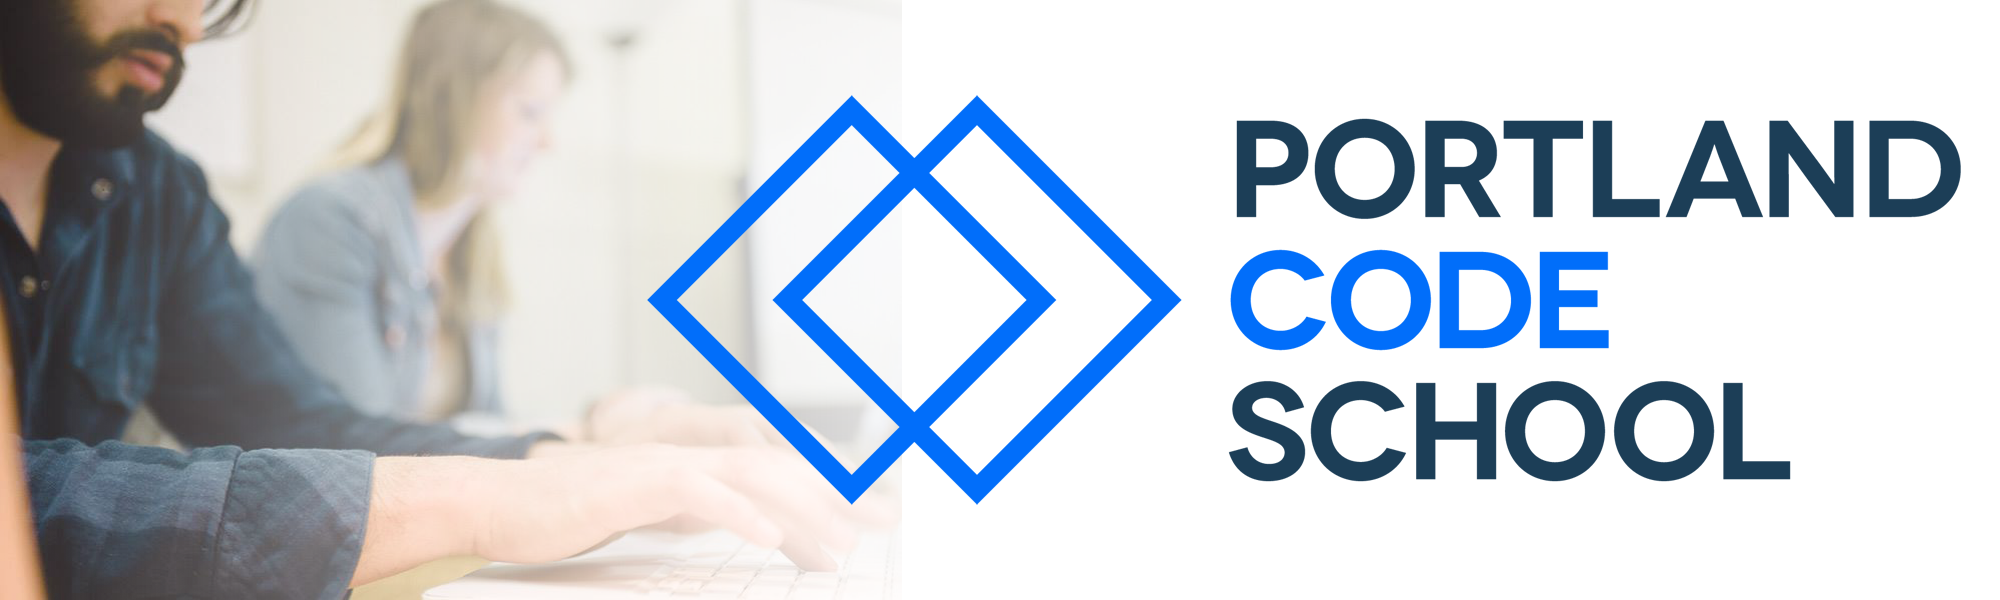
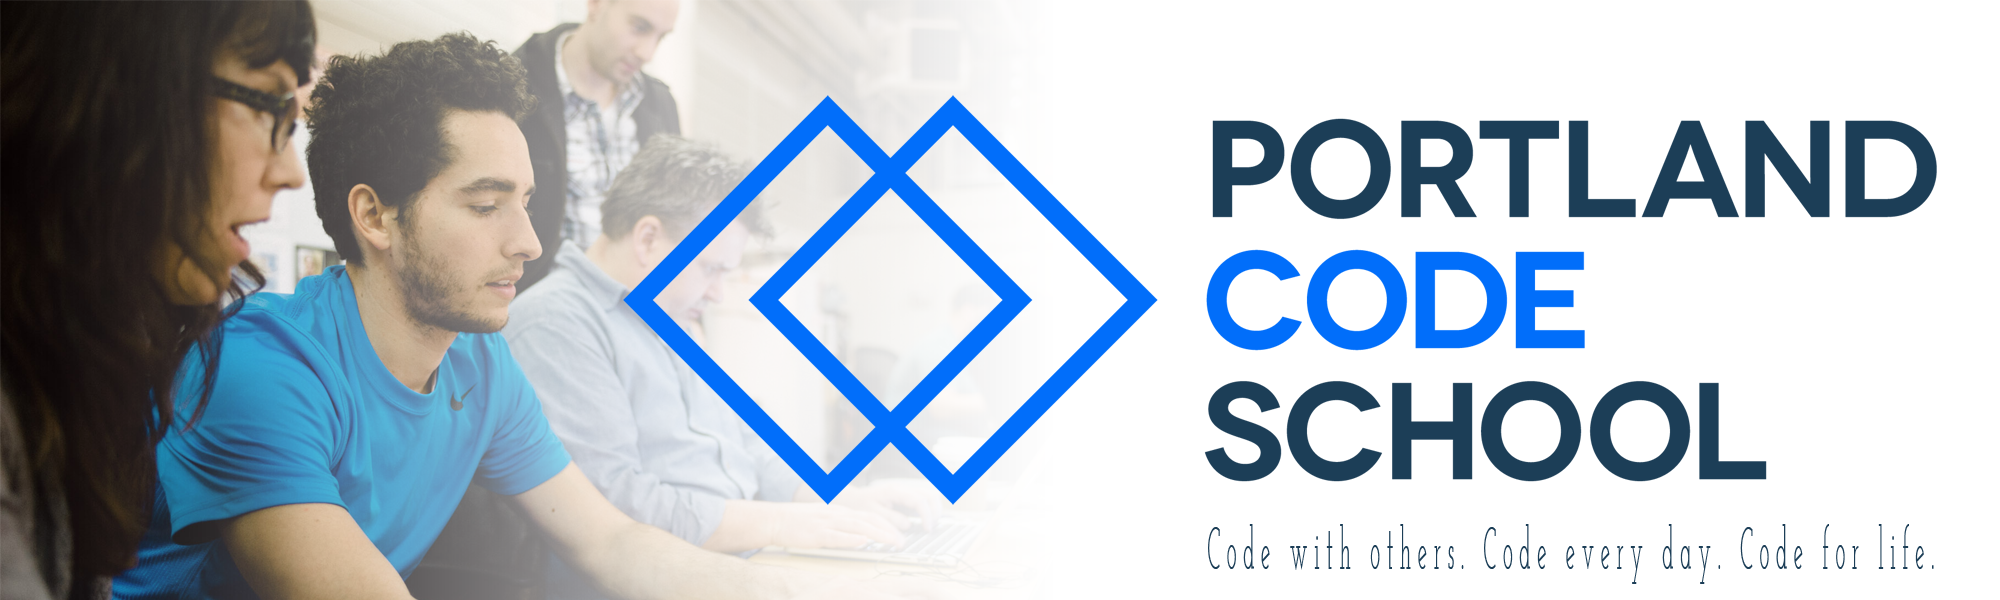
Changed landing page

diff --git a/source/stylesheets/all.css.scss b/source/stylesheets/all.css.scss
@@ -336,21 +336,20 @@ h3 {
   }
 }
 
-#landing {
+/* #landing {
   background-position: 0px 0px;
   background-color: #7b7b7b;
   color: white;
-  background-image: image_url("images/winter2013students.jpg");
+  background-image: image_url("images/banner.png");
   background-repeat: no-repeat;
-  background-size: cover;
+  background-size: 100%;
   overflow: visible;
-}
+} */
 
 .landing-content {
   font-size: 1.2em;
   text-align: center;
-  padding-top: 8%;
-  padding-bottom: 8%;
+  padding-top: 2%;
   a {
     color: $lt-teal;
     text-decoration: underline;
@@ -492,7 +491,6 @@ h3 {
   margin-top: 20px;
   margin-bottom: 20px;
   border-radius: 4px;
-  border: none;
   &.email-signup {
     border: solid;
     color: gray;
